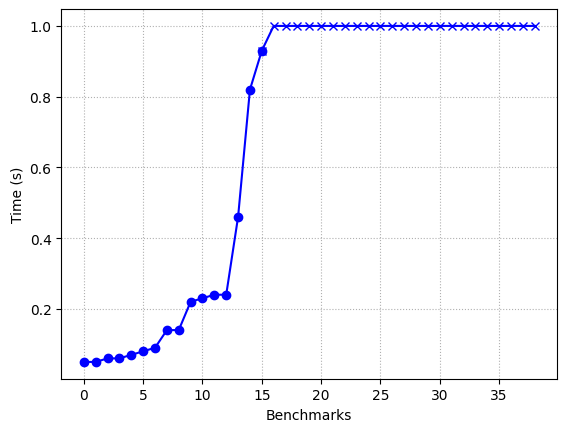
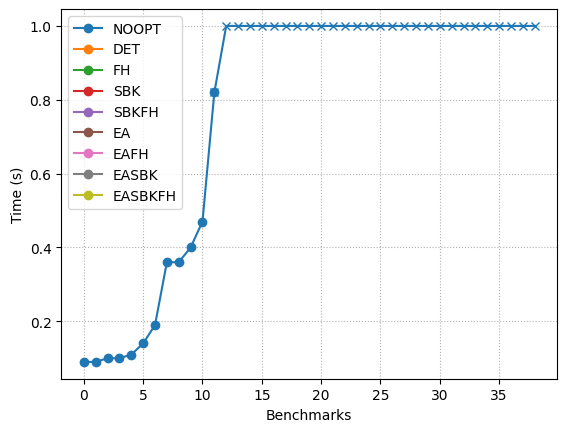
Plot and table for different modes

diff --git a/testharness.py b/testharness.py
@@ -236,30 +236,35 @@ def main():
     
     old_results = old_data['results']
 
-    table = Template("""\\begin{tabular}{$alignments}
+    table = Template("""\\begin{table}[H]
+\\caption{$caption}
+\\begin{tabular}{$alignments}
 \\toprule
 Benchmarks & $columns \\\\
 \\midrule
 $rows
 \\bottomrule
-\\end{tabular}""")
+\\end{tabular}
+\\end{table}""")
 
-    fields = [f for f in Fields]
-    columns = " & ".join(fields)
-    columns = columns.capitalize()
-    alignments = 'l' + 'r' * len(fields)
-    rows = []
-    for filename in old_results.keys():
-      cols = ['\\textsc{' + filename.split('.')[0].replace('_', '\_') + '}']
+    for f in Fields:
+      modes = [m for m in Modes]
+      columns = " & ".join(modes)
+      alignments = 'l' + 'r' * len(modes)
+      rows = []
+
+      for filename in old_results.keys():
+        cols = ['\\textsc{' + filename.split('.')[0].replace('_', '\_') + '}']
       
-      for field in fields:
-        cols.append('%.2f' % old_results[filename][field] if old_results[filename][field] else 'N/A')
+        for m in modes:
+          cols.append('%.2f' % old_results[filename][f][m] if m in old_results[filename][f] and old_results[filename][f][m] else 'N/A')
 
-      rows.append(' & '.join(cols) + ' \\\\')
+        rows.append(' & '.join(cols) + ' \\\\')
     
-    rows = '\n'.join(rows)
+      rows = '\n'.join(rows)
 
-    print(table.substitute(alignments=alignments, columns=columns, rows=rows))
+      caption = '%s results' % f
+      print(table.substitute(caption=caption, alignments=alignments, columns=columns, rows=rows))
     
 
   if args.plot:
@@ -271,26 +276,40 @@ $rows
     
     old_results = old_data['results']
 
-    y_data = []
-    y_timeouts = []
-    for filename in old_results.keys():
-      if old_results[filename][Fields.TIME]:
-        y_data.append(old_results[filename][Fields.TIME])
-      else:
-        y_timeouts.append(old_data['timeout'])
+    colors = [
+      'tab:blue', 
+      'tab:orange', 
+      'tab:green', 
+      'tab:red', 
+      'tab:purple', 
+      'tab:brown', 
+      'tab:pink', 
+      'tab:gray', 
+      'tab:olive'
+    ]
 
-    y_data.sort()
+    for m, color in zip(Modes, colors):
+      y_data = []
+      y_timeouts = []
+      for filename in old_results.keys():
+        if m in old_results[filename][Fields.TIME] and old_results[filename][Fields.TIME][m]:
+          y_data.append(old_results[filename][Fields.TIME][m])
+        else:
+          y_timeouts.append(old_data['timeouts'][m])
 
-    y_timeouts = y_data[-1:] + y_timeouts
+      y_data.sort()
 
-    x_data = [x for x in range(len(y_data))]
-    x_timeouts = [x + len(x_data) - 1 for x in range(len(y_timeouts))]
+      y_timeouts = y_data[-1:] + y_timeouts
 
-    plt.plot(x_data, y_data, 'ob-')
-    plt.plot(x_timeouts, y_timeouts, 'xb-')
+      x_data = [x for x in range(len(y_data))]
+      x_timeouts = [x + len(x_data) - 1 for x in range(len(y_timeouts))]
+
+      plt.plot(x_data, y_data, 'o-', color=color, label=m)
+      plt.plot(x_timeouts, y_timeouts, 'x-', color=color)
 
     plt.xlabel('Benchmarks')
     plt.ylabel('Time (s)')
+    plt.legend()
 
     plt.grid(True, ls=':')
 
